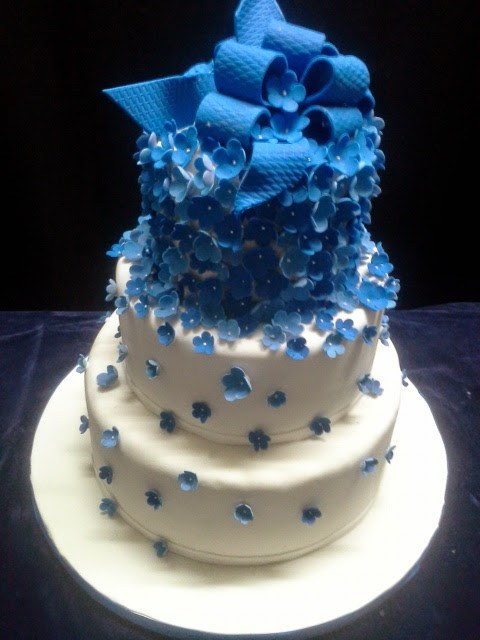
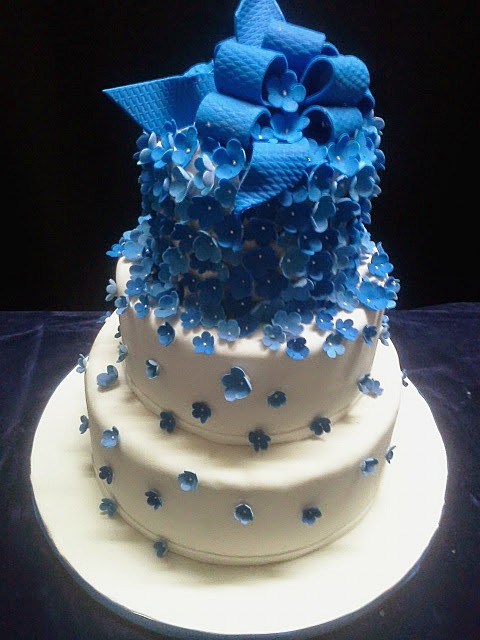
fix: Mamabel picked — EXIF rotate, glare, tilt (v1.13.3)

Changed region(s): [[0.75, 0.3438, 0.7812, 0.4062], [0.2188, 0.4688, 0.25, 0.5]]

diff --git a/scripts/improve-mamabel-picked.py b/scripts/improve-mamabel-picked.py
@@ -1,0 +1,120 @@
+"""
+Re-export Mamabel picked images: EXIF rotate, mild enhance, optional deskew.
+Run: python scripts/improve-mamabel-picked.py
+"""
+from __future__ import annotations
+
+from pathlib import Path
+from PIL import Image, ImageEnhance, ImageFilter, ImageOps
+
+SRC = Path("content/mamabel/better ones")
+OUT = Path("public/demos/mamabel/picked")
+
+# dest -> (source, max_edge, tilt_deg CW+, notes)
+JOBS: list[tuple[str, str, int, float]] = [
+    ("hero.jpg", "16423085_1247979501960237_6275321741240210923_o.jpg", 1920, 0.0),
+    ("black-bows.jpg", "SANY0080.JPG", 1920, 0.0),
+    ("black-elegant.jpg", "20140405_190202.jpg", 1600, -2.4),
+    ("black-cars.jpg", "SANY0091.JPG", 1600, 0.0),
+    ("black-maleficent.jpg", "IMG_20170421_092050558.jpg", 1600, 5.0),
+    ("black-rock.jpg", "10626226_689149541176572_5720908616390328413_o.jpg", 1600, 1.5),
+    ("black-ddm.jpg", "17966385_1325778770846976_1790103810812018808_o.jpg", 1600, 0.0),
+    ("black-bluebow.jpg", "IMG-20140509-WA0041.jpg", 1200, 0.0),
+    ("black-cupcakes-books.jpg", "SANY0074.JPG", 1600, 0.0),
+    ("black-cupcakes-roses.jpg", "SANY0105.JPG", 1600, 0.0),
+    ("black-cupcakes-close.jpg", "SANY0111.JPG", 1600, 0.0),
+]
+
+
+def compress_highlights(im: Image.Image, thresh: int = 205, amount: float = 0.4) -> Image.Image:
+    """Pull down blown whites without crushing midtones."""
+    channels = []
+    for ch in im.split():
+        lut = []
+        for v in range(256):
+            if v <= thresh:
+                lut.append(v)
+            else:
+                t = (v - thresh) / (255 - thresh)
+                lut.append(int(thresh + (255 - thresh) * (t * (1.0 - amount))))
+        channels.append(ch.point(lut))
+    return Image.merge("RGB", channels)
+
+
+def lift_shadows(im: Image.Image, floor: int = 12, amount: float = 0.18) -> Image.Image:
+    """Slightly open crushed blacks (studio black bg stays dark)."""
+    channels = []
+    for ch in im.split():
+        lut = []
+        for v in range(256):
+            if v >= 80:
+                lut.append(v)
+            else:
+                lut.append(int(v + (80 - v) * amount + floor * amount * 0.15))
+        channels.append(ch.point(lut))
+    return Image.merge("RGB", channels)
+
+
+def enhance(im: Image.Image, *, hero: bool = False) -> Image.Image:
+    im = compress_highlights(im, thresh=200 if hero else 210, amount=0.45 if hero else 0.35)
+    if not hero:
+        # keep studio black; only tiny shadow lift for subject
+        im = lift_shadows(im, floor=8, amount=0.12)
+    else:
+        im = lift_shadows(im, floor=10, amount=0.22)
+    im = ImageEnhance.Contrast(im).enhance(1.06 if hero else 1.04)
+    im = ImageEnhance.Color(im).enhance(1.04 if hero else 1.03)
+    im = ImageEnhance.Sharpness(im).enhance(1.12)
+    im = im.filter(ImageFilter.UnsharpMask(radius=1.2, percent=60, threshold=3))
+    return im
+
+
+def fit_max(im: Image.Image, max_edge: int) -> Image.Image:
+    w, h = im.size
+    scale = min(1.0, max_edge / max(w, h))
+    if scale >= 1:
+        return im
+    return im.resize((int(w * scale), int(h * scale)), Image.Resampling.LANCZOS)
+
+
+def deskew(im: Image.Image, deg: float) -> Image.Image:
+    if abs(deg) < 0.05:
+        return im
+    # expand with black (studio) then crop back to original aspect content
+    rotated = im.rotate(-deg, resample=Image.Resampling.BICUBIC, expand=True, fillcolor=(0, 0, 0))
+    # crop center to remove rotation triangles while keeping most content
+    w, h = im.size
+    rw, rh = rotated.size
+    # scale factor from expand
+    # take center crop matching original aspect, as large as fits
+    aspect = w / h
+    if rw / rh > aspect:
+        nh = rh
+        nw = int(nh * aspect)
+    else:
+        nw = rw
+        nh = int(nw / aspect)
+    left = (rw - nw) // 2
+    top = (rh - nh) // 2
+    return rotated.crop((left, top, left + nw, top + nh))
+
+
+def process(dest: str, src_name: str, max_edge: int, tilt: float) -> None:
+    src = SRC / src_name
+    im = ImageOps.exif_transpose(Image.open(src)).convert("RGB")
+    im = deskew(im, tilt)
+    im = fit_max(im, max_edge)
+    im = enhance(im, hero=(dest == "hero.jpg"))
+    out = OUT / dest
+    im.save(out, "JPEG", quality=90, optimize=True, progressive=True)
+    print(f"ok {dest:28} {im.size[0]}x{im.size[1]} tilt={tilt:+.1f} from {src_name}")
+
+
+def main() -> None:
+    OUT.mkdir(parents=True, exist_ok=True)
+    for dest, src_name, max_edge, tilt in JOBS:
+        process(dest, src_name, max_edge, tilt)
+
+
+if __name__ == "__main__":
+    main()

diff --git a/content/mamabel/better ones/README.md b/content/mamabel/better ones/README.md
@@ -2,12 +2,14 @@
 
 Drop crudo: `content/mamabel/better ones/` (local).
 
-Listos (fondo negro, sin crop): `public/demos/mamabel/picked/`
+Listos (fondo negro + EXIF/enhance): `public/demos/mamabel/picked/`
+
+Regen: `python scripts/improve-mamabel-picked.py` (EXIF rotate, highlight compress, tilt).
 
 | Archivo | Uso |
 |---------|-----|
 | `hero.jpg` | Hero — retrato Mabel (16423085…) |
-| `black-bows.jpg` | Portfolio (SANY0080) |
+| `black-bows.jpg` | Portfolio (SANY0080, EXIF-fixed) |
 | `black-elegant.jpg` | Oficio + portfolio |
 | `black-*.jpg` | Portfolio / oficio gallery |
 

diff --git a/docs/AGENT_STATUS.md b/docs/AGENT_STATUS.md
@@ -5,7 +5,7 @@
 | Campo | Valor |
 |-------|--------|
 | **Fecha snapshot** | 2026-07-28 |
-| **Versión** | `1.13.2` (`package.json` → stamp UI) |
+| **Versión** | `1.13.3` (`package.json` → stamp UI) |
 | **Rama** | `trabajo` (tracks `origin/trabajo`) |
 | **Último commit** | `3aad6fe` — Mamabel etapa 3 likes+cursos (v1.13.0) |
 | **Live** | https://tmm.gatrivi.com |
